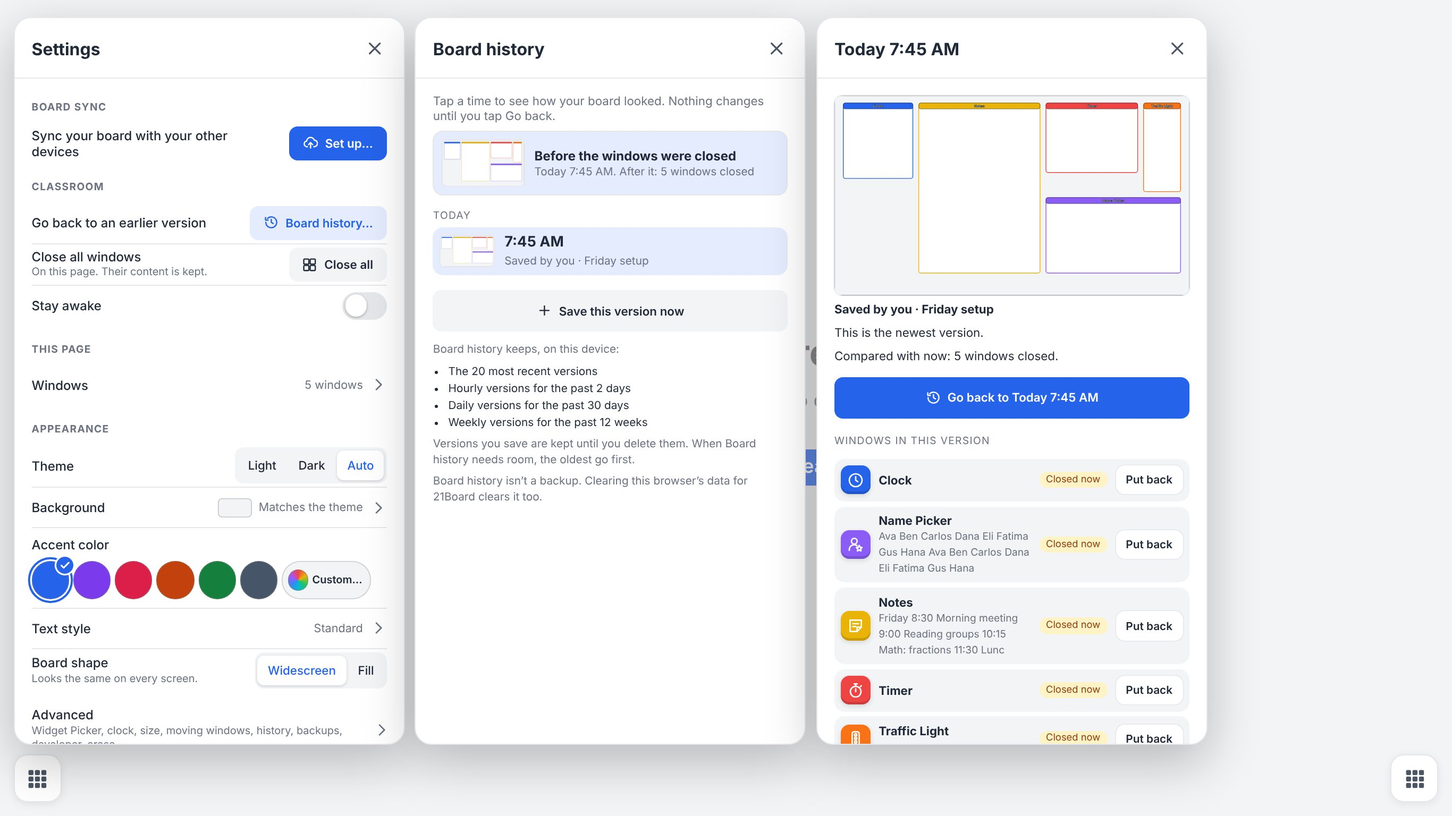
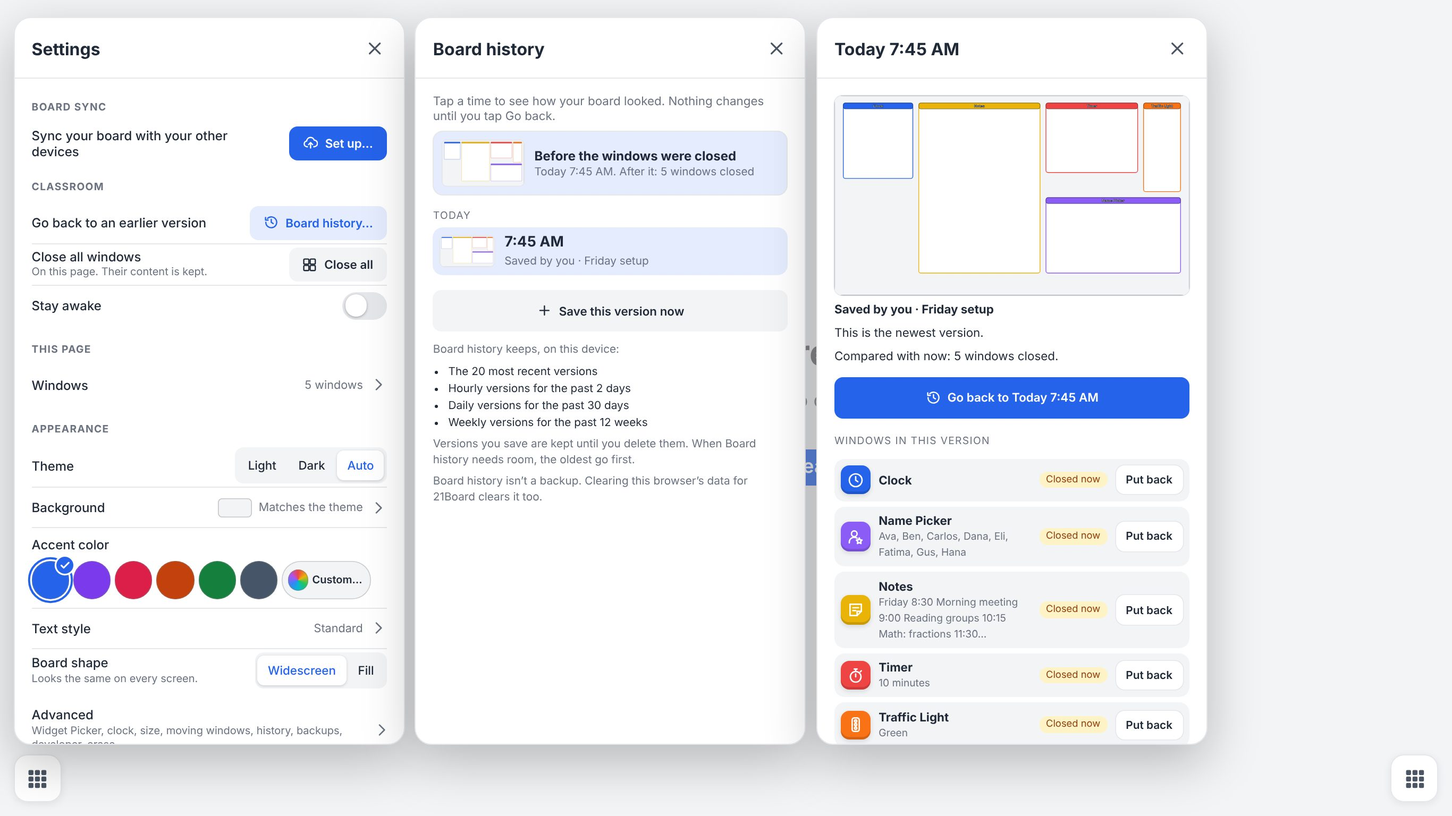
Release 2026.11.18-19: each window's line in Board history, in each widget's own terms
Board history describes each window in one line, under Windows in this version and in a window's own earlier
versions. The line was every string in the window's content run together, so a Name Picker listed its names twice,
a Calculator showed its tokens, and a Timer or Dice said nothing.

- board.js: BoardHistory.lines, one short reader for each built-in widget. The Name Picker's names once, the
  Calculator's problem as it shows it, First/Then, the Task Timer's tasks, the Video Player's title, the Timer's
  time, the Dice, the Traffic Light, the Picture's name and the note's text. excerptOf(data, widgetId) uses them,
  and winsOf passes the widget. Any other widget keeps the text in its content, each piece once. A line is 80
  characters at most, cut at a space with an ellipsis. A reader that fails gives the text instead. Versions saved
  before keep their line.
- tests/run.js: new suite "Board history: each window's line (2026.11.18-19)".
- docs/DATA-FORMAT.md: what excerpt is, and maximized in wins.
- Teacher Guide: history.jpg retaken, with the Timer set to 10 minutes.
- Stamped 2026.11.18-19.

Claude-Session: https://claude.ai/code/session_016h6FE3zxBXGFPaABAUFsSL

Changed region(s): [[0.56, 0.625, 0.8089, 0.9062], [0.7156, 0.8125, 0.8089, 0.9375]]

diff --git a/tests/run.js b/tests/run.js
@@ -10972,6 +10972,173 @@ const SUITES = [
     ok(/isn’t available/.test(await pu.locator('#settings').textContent()) && !eu.length && await pu.evaluate(() => window.__board21.state.data.get('notes:1').text === 'still saves'), 'where board history can’t be used, Settings says so and the board saves as before');
     await c2.close();
   }],
+  // Each window's line in Board history (a version's Windows in this version, and a window's own Earlier versions):
+  // each built-in widget in its own terms, any other widget the text in its content, each piece once.
+  ["Board history: each window's line (2026.11.18-19)", async (browser) => {
+    const ctx = await browser.newContext({ viewport: { width: 1280, height: 720 } });
+    const page = await ctx.newPage();
+    const errors = []; page.on('pageerror', e => errors.push(e.message));
+    await page.goto(BASE); await page.waitForTimeout(600); await freeBoard(page);
+    const H = (fn, arg) => page.evaluate(fn, arg);
+    const line = (data, id) => H(([d, id]) => window.__board21.history.excerptOf(d, id), [data, id]);
+    const NAMES = ['Ava', 'Ben', 'Carlos', 'Dana', 'Eli', 'Fatima', 'Gus', 'Hana'];
[1 lines of base64/hex data omitted]
+    const AGENDA = 'Friday\n1. Morning meeting\n2. Reading groups\n3. Math: fractions\n4. Lunch at 11:30\n5. Science lab';
+    const BUNNY = { source: 'youtube', videoId: 'aqz-KE-bpKQ', videoUrl: 'https://www.youtube.com/watch?v=aqz-KE-bpKQ' };
+    const FRACS = [{ n: '3' }, '/', { n: '4' }, '+', { n: '1' }, '/', { n: '8' }];
+    const calc = expr => ({ v: 2, expr, mode: 'edit', history: [] });
+    // Content as each widget's own buttons saved it, measured on 84edbe5.
+    const SAVED = {
+      'name-picker': { names: NAMES, left: ['Ava', 'Ben', 'Carlos', 'Dana', 'Eli', 'Fatima', 'Hana'], picked: ['Gus'], pickId: 'mwp2g7b7-pg6utj', current: 'Gus' },
+      calculator: { v: 2, expr: FRACS, mode: 'done', pct: 'of', closed: 0, history: [{ expr: FRACS, pct: 'of' }] },
+      'first-then-board': { first: { id: 'math', label: 'Math', icon: '🔢', category: 'Academic' }, then: { id: 'playground', label: 'Playground / swings', icon: '🛝', category: 'Reward' },
+        firstDone: false, thenDone: false, sound: true, theme: 'classic', motion: true, themeTrayOpen: true, doneTrayOpen: true },
+      'task-timer': { totalMode: 'sum', totalMinutes: 60, tasks: [{ emoji: '✨', name: '✨ Reading', minutes: 20, color: '#ff5e57' }, { emoji: '🎨', name: '🎨 Writing', minutes: 15, color: '#ffc048' },
+        { emoji: '⚽', name: '⚽ Clean up', minutes: 5, color: '#0be881' }], activeIndex: 0, secondsLeft: 900, running: false, endsAt: null, alarm: false },
+      'youtube-player': Object.assign({}, BUNNY, { history: [Object.assign({}, BUNNY, { title: 'Big Buck Bunny 60fps 4K' })] }),
+      timer: { duration: 300000, remaining: 300000, endsAt: 1795184723603 },
+      dice: { values: [6, 2] },
+      'traffic-light': { active: 'green' },
+      image: { src: PNG, w: 1, h: 1, name: '', bytes: 70 },
+      notes: { text: AGENDA }
+    };
+    const FT = SAVED['first-then-board'];
+
+    // ---- 1. Each built-in widget in its own terms.
+    const CASES = [
+      ['name-picker', SAVED['name-picker'], 'Ava, Ben, Carlos, Dana, Eli, Fatima, Gus, Hana', 'a Name Picker: its names, each once'],
+      ['calculator', SAVED.calculator, '3 ÷ 4 + 1 ÷ 8', 'a Calculator: the problem on it, as it shows it'],
+      ['first-then-board', FT, 'First Math, then Playground / swings', 'a First/Then Board'],
+      ['task-timer', SAVED['task-timer'], 'Reading, Writing, Clean up', 'a Task Timer: its tasks, without their emoji'],
+      ['youtube-player', SAVED['youtube-player'], 'Big Buck Bunny 60fps 4K', 'a Video Player: the title of its video'],
+      ['timer', SAVED.timer, '5 minutes', 'a Timer: the time it’s set to'],
+      ['dice', SAVED.dice, '6 and 2', 'a pair of Dice'],
+      ['traffic-light', SAVED['traffic-light'], 'Green', 'a Traffic Light'],
+      ['image', SAVED.image, 'Pasted picture', 'a pasted Picture'],
+      ['notes', SAVED.notes, 'Friday 1. Morning meeting 2. Reading groups 3. Math: fractions 4. Lunch at…', 'Notes: its text, cut at a space'],
+      ['image', { src: PNG, w: 1, h: 1, name: 'photo.jpg', bytes: 70 }, 'photo.jpg', 'a Picture with a name'],
+      ['image', { src: null }, '', 'a Picture with no picture: no line'],
+      ['timer', { duration: 150000, remaining: 150000, endsAt: null }, '2:30', 'a Timer at 2½ minutes'],
+      ['timer', { duration: 60000, remaining: 60000, endsAt: null }, '1 minute', 'a Timer at 1 minute'],
+      ['timer', { duration: 45000, remaining: 45000, endsAt: null }, '0:45', 'a Timer at 45 seconds'],
+      ['dice', { values: [4] }, '4', 'one die'],
+      ['dice', { values: [3, 5, 1] }, '3, 5 and 1', 'three dice'],
+      ['dice', { values: [] }, '', 'Dice not rolled: no line'],
+      ['traffic-light', { active: null }, '', 'a Traffic Light with no light on: no line'],
+      ['traffic-light', { active: 'red' }, 'Red', 'a red Traffic Light'],
+      ['first-then-board', Object.assign({}, FT, { then: null }), 'First Math', 'a First/Then Board with only a first card'],
+      ['first-then-board', Object.assign({}, FT, { first: null }), 'Then Playground / swings', 'a First/Then Board with only a then card'],
+      ['task-timer', { totalMode: 'sum', totalMinutes: 60, tasks: [{ emoji: '📚', name: 'Math', minutes: 20, color: '#ff5e57' }, { emoji: '', name: 'Snack', minutes: 10, color: '#ffc048' }] },
+        'Math, Snack', 'a Task Timer whose names have no emoji'],
+      ['youtube-player', { source: 'youtube', videoId: 'aqz-KE-bpKQ', videoUrl: 'https://youtu.be/aqz-KE-bpKQ?t=30', start: 30, history: [{ source: 'youtube', videoId: 'aqz-KE-bpKQ', videoUrl: 'https://youtu.be/aqz-KE-bpKQ?t=30', start: 30 }] },
+        'https://youtu.be/aqz-KE-bpKQ?t=30', 'a Video Player with no title yet: its link as pasted'],
+      ['youtube-player', { videoId: null, videoUrl: '', history: SAVED['youtube-player'].history }, '', 'a Video Player with no video: no line'],
+      ['youtube-player', { source: 'vimeo', videoId: '76979871', videoUrl: 'https://vimeo.com/76979871', history: [SAVED['youtube-player'].history[0], { source: 'vimeo', videoId: '76979871', videoUrl: 'https://vimeo.com/76979871', title: 'The New Vimeo Player' }] },
+        'The New Vimeo Player', 'a Video Player: the title of the video showing, not of another in its History'],
+      ['calculator', { v: 2, expr: [], mode: 'edit', history: [{ expr: [{ n: '2' }, '*', '(', { n: '3' }, '+', { n: '4' }, ')'], pct: 'of' }] }, '2 × (3 + 4)',
+        'a Calculator with nothing typed: the newest problem in its history'],
+      ['calculator', calc(['frac', { n: '3' }, 'sep', { n: '4' }, 'end', '+', 'frac', { n: '1' }, 'sep', { n: '8' }, 'end']), '3/4 + 1/8', 'fractions from the fraction key'],
+      ['calculator', calc(['neg', { n: '5' }, '+', { n: '2' }]), '−5 + 2', 'a minus sign in front'],
+      ['calculator', calc([{ n: '5', neg: true }, '-', { n: '2.5' }]), '−5 − 2.5', 'a negative number'],
+      ['calculator', calc(['sqrt', { n: '16' }, 'end']), '√16', 'a square root'],
+      ['calculator', calc(['root', { n: '3' }, 'sep', { n: '27' }, 'end']), '³√27', 'a cube root'],
+      ['calculator', calc([{ n: '2' }, '^', { n: '3' }, 'end']), '2^3', 'a power'],
+      ['calculator', calc([{ n: '2' }, '^', { n: '3' }, '+', { n: '1' }, 'end']), '2^(3 + 1)', 'a power of more than one number'],
+      ['calculator', calc([{ n: '25' }, '%of', { n: '80' }]), '25% of 80', 'a percent of'],
+      ['calculator', calc(['pi', '*', { ans: '7/2' }, '/', { n: '1' }, 'frac', { n: '1' }, 'sep', { n: '2' }, 'end']), 'π × Ans ÷ 1 1/2', 'π, an earlier answer and a mixed number'],
+      ['calculator', calc([]), '', 'a Calculator with nothing in it: no line'],
+      ['calculator', calc([{ n: '2' }, 'sin', { n: '3' }]), '2 sin 3 edit', 'a Calculator token it doesn’t know: the text in its content'],
+      ['notes', { text: '  \n\t ' }, '', 'Notes with only spaces: no line'],
+      ['clock', null, '', 'a Clock: no line']
+    ];
+    for (const [id, data, want, what] of CASES) {
+      const got = await line(data, id);
+      ok(got === want, `${what}: “${want}” (${JSON.stringify(got)})`);
+    }
+
+    // ---- 2. Any other widget: the text in its content, each piece once.
+    ok(await line({ a: 'x', b: ['x', 'y'], c: 'x' }, 'counter') === 'x y', `another widget: its text, each piece once (${JSON.stringify(await line({ a: 'x', b: ['x', 'y'], c: 'x' }, 'counter'))})`);
+    ok(await line({ pic: PNG, caption: ' Our class ', again: 'Our class', n: 5, on: true }, 'counter') === 'Our class', 'pictures, numbers and true/false stay out, and the same text twice shows once');
+
+    // ---- 3. Content of any shape never throws.
+    const bad = await H(() => {
+      let deep = 'bottom';
+      for (let k = 0; k < 100000; k++) deep = k % 2 ? { a: deep } : [deep];
+      const shapes = [null, undefined, [], 'text', 42, { names: 5 }, { values: '6' }, { tasks: [null] }, { expr: [{}] }, { first: 'Math' }, deep,
+        { names: [null, 5, {}], tasks: 'x', values: [null], history: [null], expr: null, src: {}, active: 'constructor', text: 5, duration: '300000', first: { label: 7 }, videoId: 'x' }];
+      const out = [];
+      for (const id of ['name-picker', 'calculator', 'first-then-board', 'task-timer', 'youtube-player', 'timer', 'dice', 'traffic-light', 'image', 'notes', 'clock', 'constructor', 'counter']) {
+        shapes.forEach((d, k) => {
+          try { const s = window.__board21.history.excerptOf(d, id); if (typeof s !== 'string' || s.length > 80) out.push(`${id} #${k}: ${JSON.stringify(s)}`); } catch (e) { out.push(`${id} #${k} throws ${e.message}`); }
+        });
+      }
+      return out;
+    });
+    ok(!bad.length, `content of any shape, for each widget, never throws and gives a line of at most 80 characters (${bad.slice(0, 6).join(' | ')})`);
+
+    // ---- 4. At most 80 characters, cut at a space.
+    const FORTY = ['Aaliyah', 'Ben', 'Carlos', 'Dana', 'Eli', 'Fatima', 'Gus', 'Hana', 'Isaac', 'Jada', 'Kai', 'Luis', 'Maya', 'Noah', 'Olivia', 'Priya', 'Quinn', 'Rosa', 'Sam', 'Tariq',
+      'Uma', 'Victor', 'Wren', 'Xavier', 'Yara', 'Zane', 'Amir', 'Bella', 'Chloe', 'Diego', 'Emma', 'Finn', 'Grace', 'Hugo', 'Ivy', 'Jonah', 'Kira', 'Leo', 'Mia', 'Nico'];
+    const long = await line({ names: FORTY, left: FORTY, picked: [] }, 'name-picker'), full = FORTY.join(', ');
+    ok(long.length <= 80 && long.endsWith('…') && full.startsWith(long.slice(0, -1)) && full[long.length - 1] === ' ', `40 names: at most 80 characters, cut at a space, then … (${long.length}: ${long})`);
+    const word = await line({ a: 'x'.repeat(200) }, 'counter'), just = await line({ a: 'y'.repeat(80) }, 'counter');
+    ok(word === 'x'.repeat(79) + '…' && just === 'y'.repeat(80), `no space to cut at: 79 characters, then …; 80 stay as they are (${word.length}, ${just.length})`);
+
+    // ---- 5. End to end, through the widgets themselves: a Name Picker with 8 names and one pick, a Timer started at
+    // 5 minutes and a pair of Dice rolled, then Board history › Save this version now.
+    await H(() => window.__board21.history.cfg({ quiet: 36e5, every: 36e5, skipOpen: true }));   // (no automatic versions meanwhile)
+    const win = ik => page.frameLocator(`.win[data-ikey="${ik}"] iframe`);
+    const data = ik => H(ik => window.__board21.state.data.get(ik) || null, ik);
+    for (const [id, x] of [['name-picker', 20], ['timer', 450], ['dice', 880]]) {
+      await H(id => window.__board21.openWidget(id), id); await page.waitForTimeout(800);
+      await H(([ik, x]) => window.__board21.setRect(ik, { x, y: 20, w: 400, h: 380 }), [id + ':1', x]);
+    }
+    await page.waitForTimeout(400);
+    await win('name-picker:1').locator('#list').fill(NAMES.join('\n')); await win('name-picker:1').locator('#done').click();
+    await win('name-picker:1').locator('#go').click();
+    await eventually(async () => ((await data('name-picker:1')) || { picked: [] }).picked.length === 1);
+    await page.waitForTimeout(700); await win('name-picker:1').locator('#stage').click();
+    await win('timer:1').locator('#chips button[data-min="5"]').click(); await win('timer:1').locator('#go').click();
+    await win('dice:1').locator('#roll').click();
+    ok(await eventually(async () => ((await data('timer:1')) || {}).endsAt > 0 && (((await data('dice:1')) || {}).values || []).length === 2), '(a Name Picker with a pick, a Timer running and two Dice rolled)');
+    const rolled = (await data('dice:1')).values;
+    await openSettings(page);
+    await page.click('#settings [data-act="hist-open"]'); await page.waitForSelector('#history.open [data-act="save"]');
+    await page.click('#history [data-act="save"]'); await page.waitForSelector('#modal.open input');
+    await page.fill('#modal.open input', 'Friday setup'); await page.click('#modal.open .btn.primary');
+    await page.locator('#toasts .toast', { hasText: 'Version saved.' }).waitFor();
+    const vid = await H(async () => { await window.__board21.history.reload(); const m = window.__board21.history.metas.find(m => m.manual); return m && m.id; });
+    await page.locator(`#history .hist-row[data-val="${vid}"]`).click();
+    await page.waitForSelector('#history-detail.open .inst');
+    const rows = Object.fromEntries(await page.$$eval('#history-detail.open .inst .meta', els => els.map(e => [e.querySelector('b').textContent, e.querySelector('span').textContent])));
+    const np = rows['Name Picker'] || '';
+    ok(np === NAMES.join(', ') && NAMES.every(n => np.split(n).length === 2), `Windows in this version: the Name Picker’s line has each name once (${np})`);
+    ok(rows.Timer === '5 minutes', `the Timer’s says 5 minutes (${rows.Timer})`);
+    ok(rows.Dice === `${rolled[0]} and ${rolled[1]}`, `the Dice’s says what they rolled, ${rolled.join(' and ')} (${rows.Dice})`);
+    await page.waitForTimeout(600); await page.screenshot({ path: OUT + 'history-lines.png' });
+    for (let k = 0; k < 4 && await page.locator('#settings.open, #history.open, #history-detail.open').count(); k++) { await page.keyboard.press('Escape'); await page.waitForTimeout(250); }
+    await win('timer:1').locator('#go').click();   // (paused: the version saved is now an earlier one)
+    await eventually(async () => ((await data('timer:1')) || {}).endsAt === null);
+    await page.locator('.win[data-ikey="timer:1"] .win-label').click(); await page.waitForTimeout(250);
+    await page.click('#menu [data-act="history"]'); await page.waitForSelector('#history.open .hist-intro');
+    await page.waitForTimeout(600);
+    const own = await page.$$eval('#history.open .inst .meta span', els => els.map(e => e.textContent));
+    ok(own.length >= 2 && !own.includes('(empty)') && own.every(t => t === '5 minutes'), `the Timer’s own earlier versions: no row says “(empty)” (${own.join(' | ')})`);
+    await page.screenshot({ path: OUT + 'history-lines-timer.png' });
+    await page.keyboard.press('Escape');
+
+    // ---- 6. Nothing else changes: a version's sig and each window's other entries are as 84edbe5 made them.
+    const FIXED = { board: { name: 'Room 14', background: { color: '#e0f2fe', pattern: 'dots' } }, theme: 'light', accent: 'blue',
+      instances: Object.entries(SAVED).concat([['counter', { a: 'x', b: ['x', 'y'], c: 'x' }], ['clock', null]]).map(([id, data], k) => ({ widgetId: id, instance: 1, open: k !== 3, maximized: k === 5, z: k + 1,
+        rect: { x: 40 + 30 * k, y: 40, w: 400, h: 300 }, createdAt: 1795180000000 + k * 1000, data, config: k % 2 ? { sound: 'off' } : null })) };
+    // (Measured on 84edbe5.)
+    const BASE_SAME = '["usauus5c6e",[["name-picker:1",[1,1795180000000,"1536lr3po8m","",186,0]],["calculator:1",[1,1795180001000,"13qgdk3gyc1","1z9mcsp6qm5",190,0]],["first-then-board:1",[1,1795180002000,"1afeo75307i","",282,0]],["task-timer:1",[0,1795180003000,"17o8yuob6mr","1z9mcsp6qm5",319,0]],["youtube-player:1",[1,1795180004000,"13ic59d7fp1","",249,0]],["timer:1",[1,1795180005000,"2ebrmyxcumc","1z9mcsp6qm5",61,1]],["dice:1",[1,1795180006000,"wzsa238vhm","",16,0]],["traffic-light:1",[1,1795180007000,"9hitzml6ky","1z9mcsp6qm5",18,0]],["image:1",[1,1795180008000,"tsek3w2eu1","",157,0]],["notes:1",[1,1795180009000,"1p9bfplqr06","1z9mcsp6qm5",111,0]],["counter:1",[1,1795180010000,"1x5k0sh3378","",31,0]],["clock:1",[1,1795180011000,"","1z9mcsp6qm5",0,0]]]]';
+    const same = await H(exp => { const h = window.__board21.history, w = h.winsOf(exp); return JSON.stringify([h.sigOf(exp), Object.keys(w).map(k => [k, w[k].filter((x, j) => j !== 5)])]); }, FIXED);
+    ok(same === BASE_SAME, `a version’s sig and each window’s entries 0 to 4 and 6 are as on 84edbe5 (${same})`);
+
+    if (errors.length) ok(false, 'no page errors: ' + errors.join(' | '));
+    await ctx.close();
+  }],
   ['Board history: copies in the Board Sync folder', async (browser) => {
     const L = (p, fn, arg) => p.evaluate(fn, arg);
     const errors = [];

diff --git a/board.js b/board.js
@@ -31,8 +31,8 @@
   // The release this file belongs to. Both are written by tools/release.js: the release's name (VERSION in
   // sw.js) and the build, one fingerprint for every file of the release. The page carries the build as well
   // (<html data-build>), and so does the offline copy (sw.js): section 15 keeps them from being mixed.
-  const BOARD_VERSION = '2026.11.18-18';
-  const BOARD_BUILD = '2850eddb';
+  const BOARD_VERSION = '2026.11.18-19';
+  const BOARD_BUILD = '9b1f9846';
   const RELEASE = `${BOARD_VERSION} (${BOARD_BUILD})`;   // what Settings → About shows, to read out to IT
   const pageBuild = () => LAB ? BOARD_BUILD : document.documentElement.dataset.build || '';   // (the dev window's page has none)
   const SDK_PROTOCOL = 1;
@@ -7609,6 +7609,36 @@
   }
   // Toast options with an Undo that goes back to a Board history version.
   function undoAction(id, what) { return id ? { action: 'Undo', timeout: 20000, onAction: () => BoardHistory.restore(id, { undo: true, what }) } : {}; }
+  // Readers for each window's line in Board history. strOf gives a string, trimmed, or ''. listOf gives an array,
+  // or [].
+  const strOf = s => typeof s === 'string' ? s.trim() : '';
+  const listOf = a => Array.isArray(a) ? a : [];
+  // A Calculator problem on one line, as the Calculator shows it, such as 3 ÷ 4, 2 × (3 + 4), 3/4 from the fraction
+  // key, √16, ³√27, 2^(3 + 1) or 25% of 80. It reads the tokens calc-engine.js saves with tokenOut. A token it doesn't
+  // know throws.
+  function calcLine(t) {
+    const SAID = { '+': ' + ', '-': ' − ', '*': ' × ', '/': ' ÷ ', '(': '(', ')': ')', neg: '−', '%': '%', '%of': '% of ', pi: 'π', ans: 'Ans' };
+    const one = s => /^([0-9.]+|π|Ans)?$/.test(s) ? s : `(${s})`;   // parentheses around a box with more than a number
+    let i = 0;
+    const box = () => { const s = run(); if (t[i] === 'sep' || t[i] === 'end') i++; return s; };
+    const run = () => {   // the tokens up to the end of their box
+      let s = '';
+      while (i < t.length && t[i] !== 'sep' && t[i] !== 'end') {
+        const x = t[i++];
+        if (typeof x === 'string' && Object.prototype.hasOwnProperty.call(SAID, x)) s += SAID[x];
+        else if (x === '^' || x === 'sqrt') s += (x === '^' ? '^' : '√') + one(box());
+        else if (x === 'root') { const n = box(); s += (/^[0-9]+$/.test(n) ? n.replace(/[0-9]/g, d => '⁰¹²³⁴⁵⁶⁷⁸⁹'[d]) : `(${n})`) + '√' + one(box()); }
+        else if (x === 'frac') { const a = box(); s += (/[0-9]$/.test(s) ? ' ' : '') + one(a) + '/' + one(box()); }   // a mixed number reads 1 1/2
+        else if (x && typeof x.n === 'string') s += (/[)π%]$/.test(s) ? ' × ' : '') + (x.neg ? '−' : '') + x.n;
+        else if (x && typeof x === 'object' && 'ans' in x) s += 'Ans';
+        else throw new Error('Not a Calculator token');
+      }
+      return s;
+    };
+    const s = run();
+    if (i < t.length) throw new Error('Not a Calculator problem');
+    return s;
+  }
 
   const BoardHistory = {
     dbp: null, off: '', paused: '', status: '', low: false, metas: [], dirty: false, lastChangeAt: 0, firstDirtyAt: 0,
@@ -7728,17 +7758,48 @@
         .map(i => i.maximized ? [ikeyOf(i.widgetId, i.instance), 0, 0, vp.width, vp.height] : [ikeyOf(i.widgetId, i.instance), Math.round(i.rect.x), Math.round(i.rect.y), Math.round(i.rect.w), Math.round(i.rect.h)]);
       return { bg: bg.color || null, pattern: bg.pattern || 'none', shape: exp.board && exp.board.shape === 'free' ? 'free' : '16:9', vw: vp.width, vh: vp.height, wins };
     },
-    excerptOf(v) {
-      const out = [];
-      const walk = x => { if (out.join(' ').length > 80) return; if (typeof x === 'string') { if (x.trim() && !x.startsWith('data:')) out.push(x.trim()); } else if (Array.isArray(x)) x.forEach(walk); else if (x && typeof x === 'object') Object.values(x).forEach(walk); };
-      walk(v);
-      return out.join(' ').replace(/\s+/g, ' ').slice(0, 80);
+    // Each built-in widget's line, read from its content d, in its own terms. '' is no line.
+    lines: {
+      'name-picker': d => listOf(d.names).map(strOf).filter(Boolean).join(', '),
+      calculator: d => calcLine(listOf(listOf(d.expr).length ? d.expr : (listOf(d.history)[0] || {}).expr)),
+      'first-then-board': d => { const f = strOf(d.first && d.first.label), t = strOf(d.then && d.then.label); return f && t ? `First ${f}, then ${t}` : f ? `First ${f}` : t ? `Then ${t}` : ''; },
+      'task-timer': d => listOf(d.tasks).map(t => { const n = strOf(t && t.name), e = strOf(t && t.emoji); return e && n.startsWith(e + ' ') ? n.slice(e.length + 1).trim() : n; }).filter(Boolean).join(', '),
+      'youtube-player': d => { if (!d.videoId) return ''; const e = listOf(d.history).find(e => e && e.videoId === d.videoId); return strOf(e && e.title) || strOf(d.videoUrl); },
+      timer: d => {
+        if (!Number.isFinite(d.duration) || d.duration < 0) return '';
+        const s = Math.ceil(d.duration / 1000), m = Math.floor(s / 60);
+        return s % 60 ? `${m}:${String(s % 60).padStart(2, '0')}` : m === 1 ? '1 minute' : `${m} minutes`;
+      },
+      dice: d => { const v = listOf(d.values).filter(Number.isFinite); return v.length > 1 ? `${v.slice(0, -1).join(', ')} and ${v[v.length - 1]}` : v.join(''); },
+      'traffic-light': d => ['red', 'yellow', 'green'].includes(d.active) ? d.active[0].toUpperCase() + d.active.slice(1) : '',
+      image: d => d.src ? strOf(d.name) || 'Pasted picture' : '',
+      notes: d => strOf(d.text)
+    },
+    // A few words about a window's content, 80 characters at most. A built-in widget has its own line, above. Any other
+    // widget shows the text in its content, each piece once, without pictures. Content can come from a file or an older
+    // 21Board, so a line that fails shows the text instead.
+    excerptOf(v, widgetId) {
+      let s = null;
+      try { if (Object.prototype.hasOwnProperty.call(this.lines, widgetId)) s = this.lines[widgetId](v); } catch (e) { /* the text, below */ }
+      if (typeof s !== 'string') {
+        const out = [], seen = new Set(), todo = [v];
+        for (let n = -1; todo.length && n <= 80;) {   // n is the length so far, spaces included
+          const x = todo.pop();
+          if (typeof x === 'string') { const t = x.trim(); if (t && !t.startsWith('data:') && !seen.has(t)) { seen.add(t); out.push(t); n += t.length + 1; } }
+          else if (x && typeof x === 'object') { const vs = Object.values(x); for (let k = vs.length - 1; k >= 0; k--) todo.push(vs[k]); }
+        }
+        s = out.join(' ');
+      }
+      s = s.replace(/\s+/g, ' ').trim();
+      if (s.length <= 80) return s;
+      const cut = s.lastIndexOf(' ', 79);
+      return (cut > 0 ? s.slice(0, cut) : s.slice(0, 79)) + '…';
     },
     winsOf(exp) {
       const w = {};
       for (const i of exp.instances) {
         const d = i.data == null ? '' : JSON.stringify(i.data), c = i.config == null ? '' : JSON.stringify(i.config);
-        w[ikeyOf(i.widgetId, i.instance)] = [i.open ? 1 : 0, i.createdAt || 0, d ? hash53(d) : '', c ? hash53(c) : '', d.length, this.excerptOf(i.data), i.maximized ? 1 : 0];
+        w[ikeyOf(i.widgetId, i.instance)] = [i.open ? 1 : 0, i.createdAt || 0, d ? hash53(d) : '', c ? hash53(c) : '', d.length, this.excerptOf(i.data, i.widgetId), i.maximized ? 1 : 0];
       }
       return w;
     },

diff --git a/sw.js b/sw.js
@@ -11,14 +11,14 @@
  * >>> Before you deploy: bump VERSION, then run `node tools/release.js`. <<<   (README, "Deploying")
  * If files change without that, the tests fail, and devices keep the version they have.
  */
-const VERSION = '2026.11.18-18';
+const VERSION = '2026.11.18-19';
 // Written by tools/release.js, never by hand. BUILD: one fingerprint for this file and everything in FILES.
 // FILES: every file of the offline copy, with its own fingerprint.
-const BUILD = '2850eddb';
+const BUILD = '9b1f9846';
 const FILES = {
-  './': 'af6e9d0c70741335',
-  'index.html': 'af6e9d0c70741335',
-  'board.js': 'bee458e8989736ce',
+  './': '06f245e322969106',
+  'index.html': '06f245e322969106',
+  'board.js': '553d3dc9c534c335',
   'sdk/board21.js': 'ba3de867e376915e',
   'sdk/board21-dev.js': 'f7a43b8c7a88a9e8',
   'sdk/dev/board-shell.js': '0d8b538e03ffe213',

diff --git a/docs/teacher-guide/work/scenes.js b/docs/teacher-guide/work/scenes.js
@@ -299,6 +299,7 @@ SCENES.history = async () => {
   await typeNote(p, ik.notes, AGENDA_LONG);
   await addNames(p, ik['name-picker']);
   await light(p, ik['traffic-light'], 'green');
+  await frame(p, ik.timer).locator('#chips button[data-min="10"]').click(); await wait(p, 300);
   await deselect(p);
   // Board history → Save this version now → "Friday setup"
   await openSettings(p);

diff --git a/index.html b/index.html
@@ -1,6 +1,6 @@
 <!DOCTYPE html>
 <!-- data-build is written by tools/release.js: board.js checks that this page and it are the same build. -->
-<html lang="en" data-build="2850eddb">
+<html lang="en" data-build="9b1f9846">
 <head>
   <meta charset="UTF-8">
   <meta name="viewport" content="width=device-width, initial-scale=1.0, maximum-scale=1.0, user-scalable=no, viewport-fit=cover">

diff --git a/docs/DATA-FORMAT.md b/docs/DATA-FORMAT.md
@@ -535,10 +535,12 @@ with the board's records and never exported. Three object stores:
         | "merge" | "undo" | "join" | "take",
   label, sig, uid, name, bytes, photo: "<key>" | null | "gone", pics: ["pic-…"],     // only with pictures
   thumb: { bg, pattern, shape, vw, vh, wins: [[ikey, x, y, w, h], …] },              // open windows, back to front
-  wins: { "<ikey>": [open, createdAt, dataHash, confHash, dataLength, excerpt] },
+  wins: { "<ikey>": [open, createdAt, dataHash, confHash, dataLength, excerpt, maximized] },
   beforeBig, keepUntil, manual, manualLabel, folder, tab,
   deletedAt }                                                                         // the page was deleted then (ms)
 ```
+
+`excerpt` is a few words about the window's content, such as a Timer's `5 minutes` or the text in an uploaded widget.
 
 Versions before Board Sync merges (`reason: "merge"`, "Before changes from the laptop") may be of a page that isn't
 shown: `uid` and `name` are that page's. A risky merge (deleting or bringing back, emptying content, a clash, a photo
